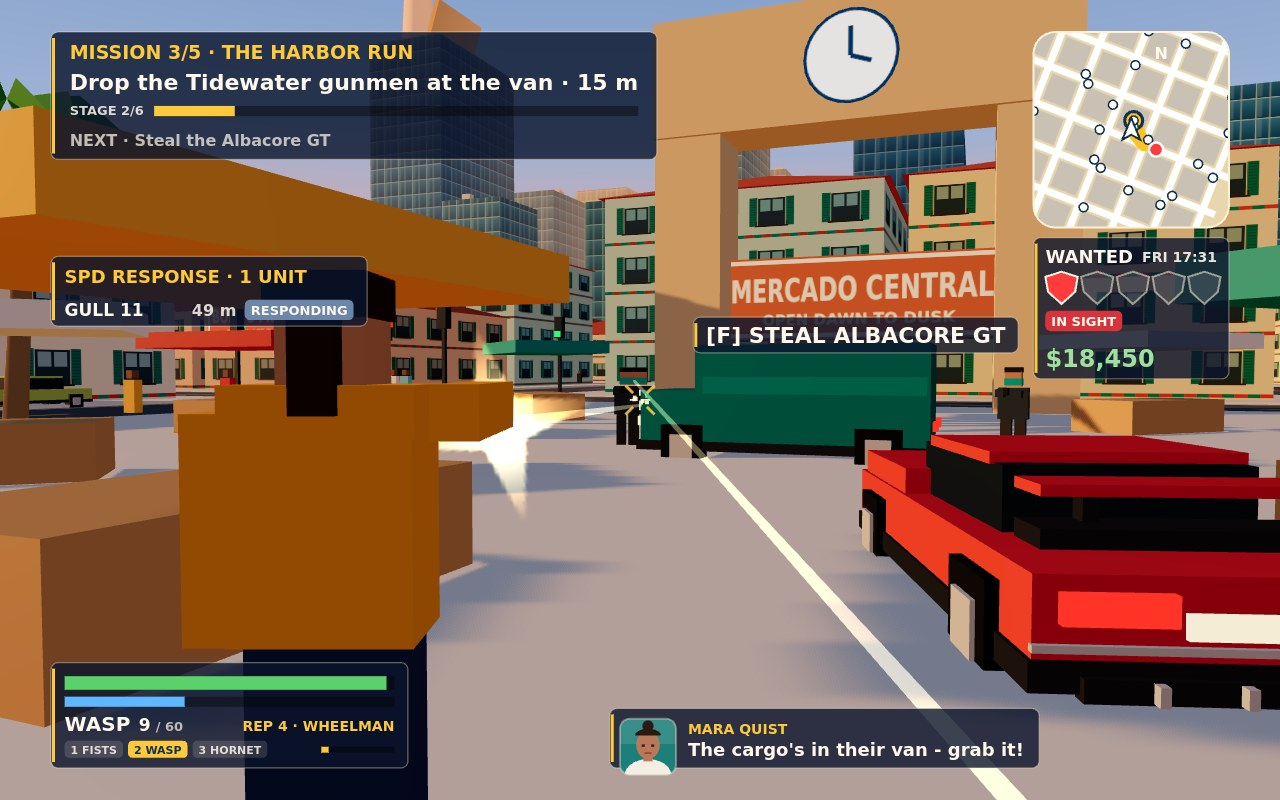
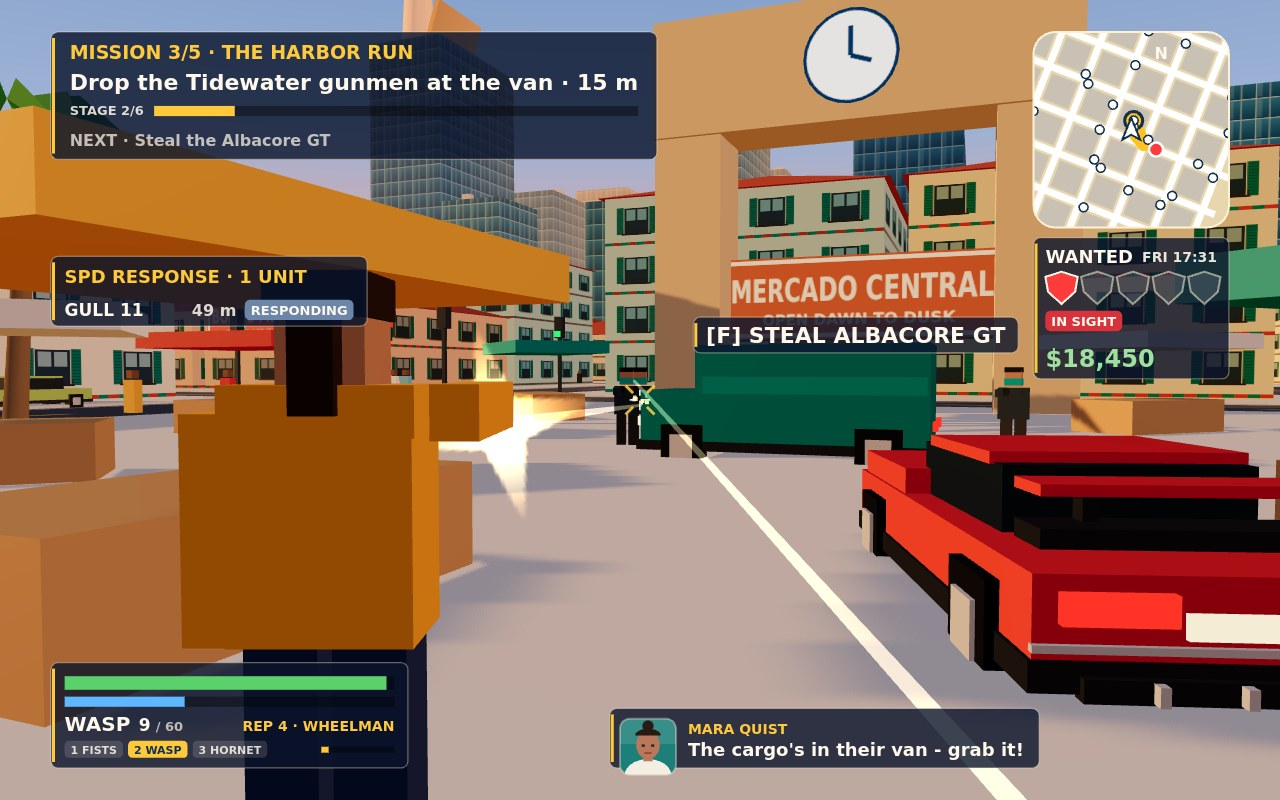
M6 cover pass: notes (framing past the OSTRA BANK board, warm bounce light kept, road glare streak tried again and reverted), SELFTEST PASS 23/23 (HIGH 166 / median 1.8 ms, LOW 108 / 1.5 ms), originality PASS, main.ts twice byte-identical (40 files, dossier 1,119,191 bytes); shots re-shot 173.3 / 17

diff --git a/NOTES.md b/NOTES.md
@@ -1,5 +1,29 @@
 # PORT SOLARA build notes
 
+## M6 cover pass: framing and bounce done, road streak reverted again (run of 2026-11-19 00:45-00:56 EET)
+- (1) Framing (screenshot-scenes.js chase): the Albacore starts at x -138 on Rua 5 (was -122; -130
+  still left the OSTRA BANK board's corner under the minimap), so the board passes out of frame and
+  no sign is cut by a HUD panel. Sun, both flanking Beacons and SKYLARK 1 stay in frame; a crosswalk
+  now runs under the coupe and the beach palms replace the left-hand buildings. SPD list row 4 is now
+  MERCADO 3 31 m PURSUIT (real distance). A/B vs out/ab/run5-before-1-chase.jpg: kept.
+- (2) Bounce light (world/sunlight-and-sea.js): a warm shadowless DirectionalLight (0xffc49a, 0.9)
+  from opposite the low sun. The coupe's rear now reads red instead of near-black in the chase toward
+  the sun, and the cruisers' bodies read better. On at every graphics level (no extra draw calls).
+  A/B: kept. All four shots re-shot with it.
+- (3) Road glare streak: tried again (a flat additive 9 x 140 m strip from the eye along the sun's
+  bearing at y 0.15, depthWrite false, renderOrder 6, frustumCulled false, positioned in
+  `light.follow`) and **reverted**: still nothing visible in the cover. Next suspect: the road or
+  crosswalk materials draw after renderOrder 6 or with polygonOffset, or the strip lies left of the
+  view (the arm looks 0.2 rad right of the sun); test it alone in an ad-hoc frame with a bright colour.
+- Self-test (SwiftShader, 1280x800): SELFTEST PASS 23/23. Perf: HIGH 166 draw calls / 41,751 tris /
+  median 1.8 ms / heap 40 MB; LOW 108 / 25,743 / 1.5 ms (before: 166 / 1.7 ms, 108 / 1.8 ms).
+- Originality PASS (32 files). main.ts twice: 40 files byte-identical, dossier 1,119,191 bytes
+  (it must run without `ulimit -v`, as noted before).
+- Shots: 1-chase.jpg 173.3 KiB, 2-street.jpg 173.9 KiB, 3-map.jpg 167.5 KiB, 4-title.jpg 188.6 KiB.
+  Judge sheet rebuilt and read at 50%: the red coupe reads, no cut signs.
+- Next: the road streak debug above, visible lane dashes, real-speed streaks; round minimap, drawn
+  weapon icons, a play-time controls strip.
+
 ## M6 cover detail: done except the road streak (run of 2026-11-19 00:31-00:54 EET)
 - (1) SKYLARK 1 (police/police-ai.js, screenshot-scenes.js `FRAME`): staged at NDC (0.14, 0.66) and
   30 m up (was 0.2, 0.5, 14 m), so it is about half the size on screen, higher and right of the sun,
